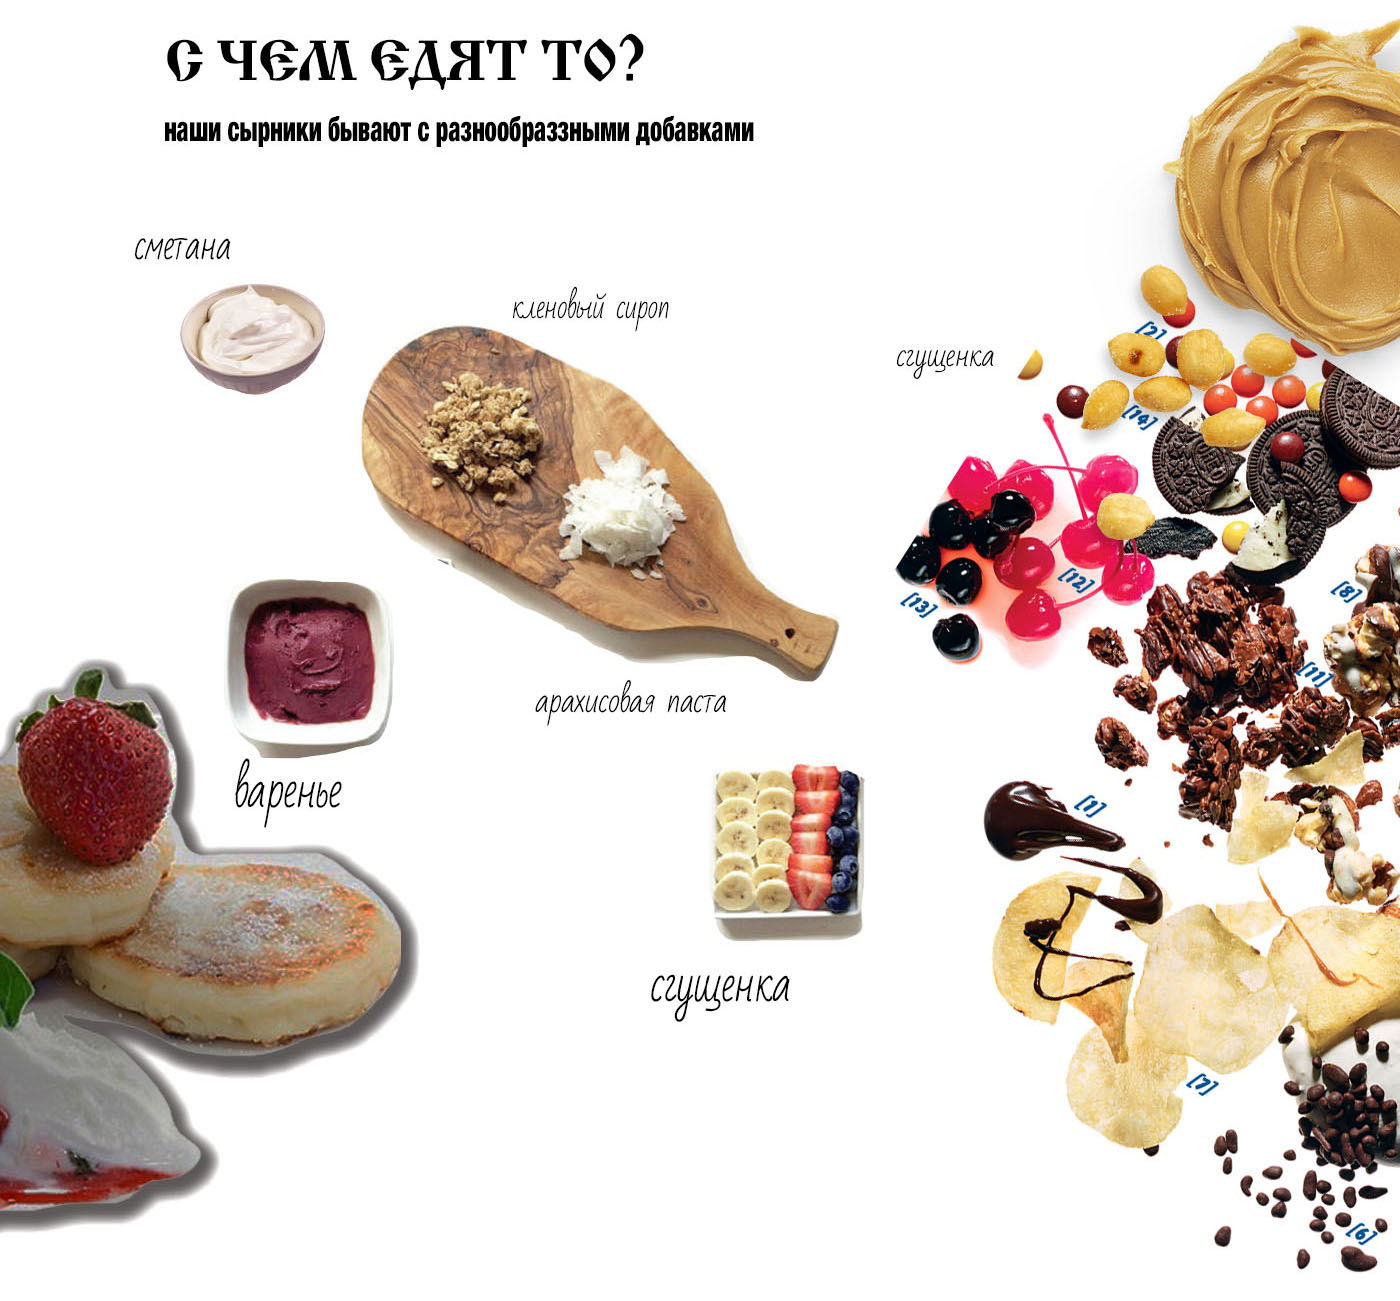
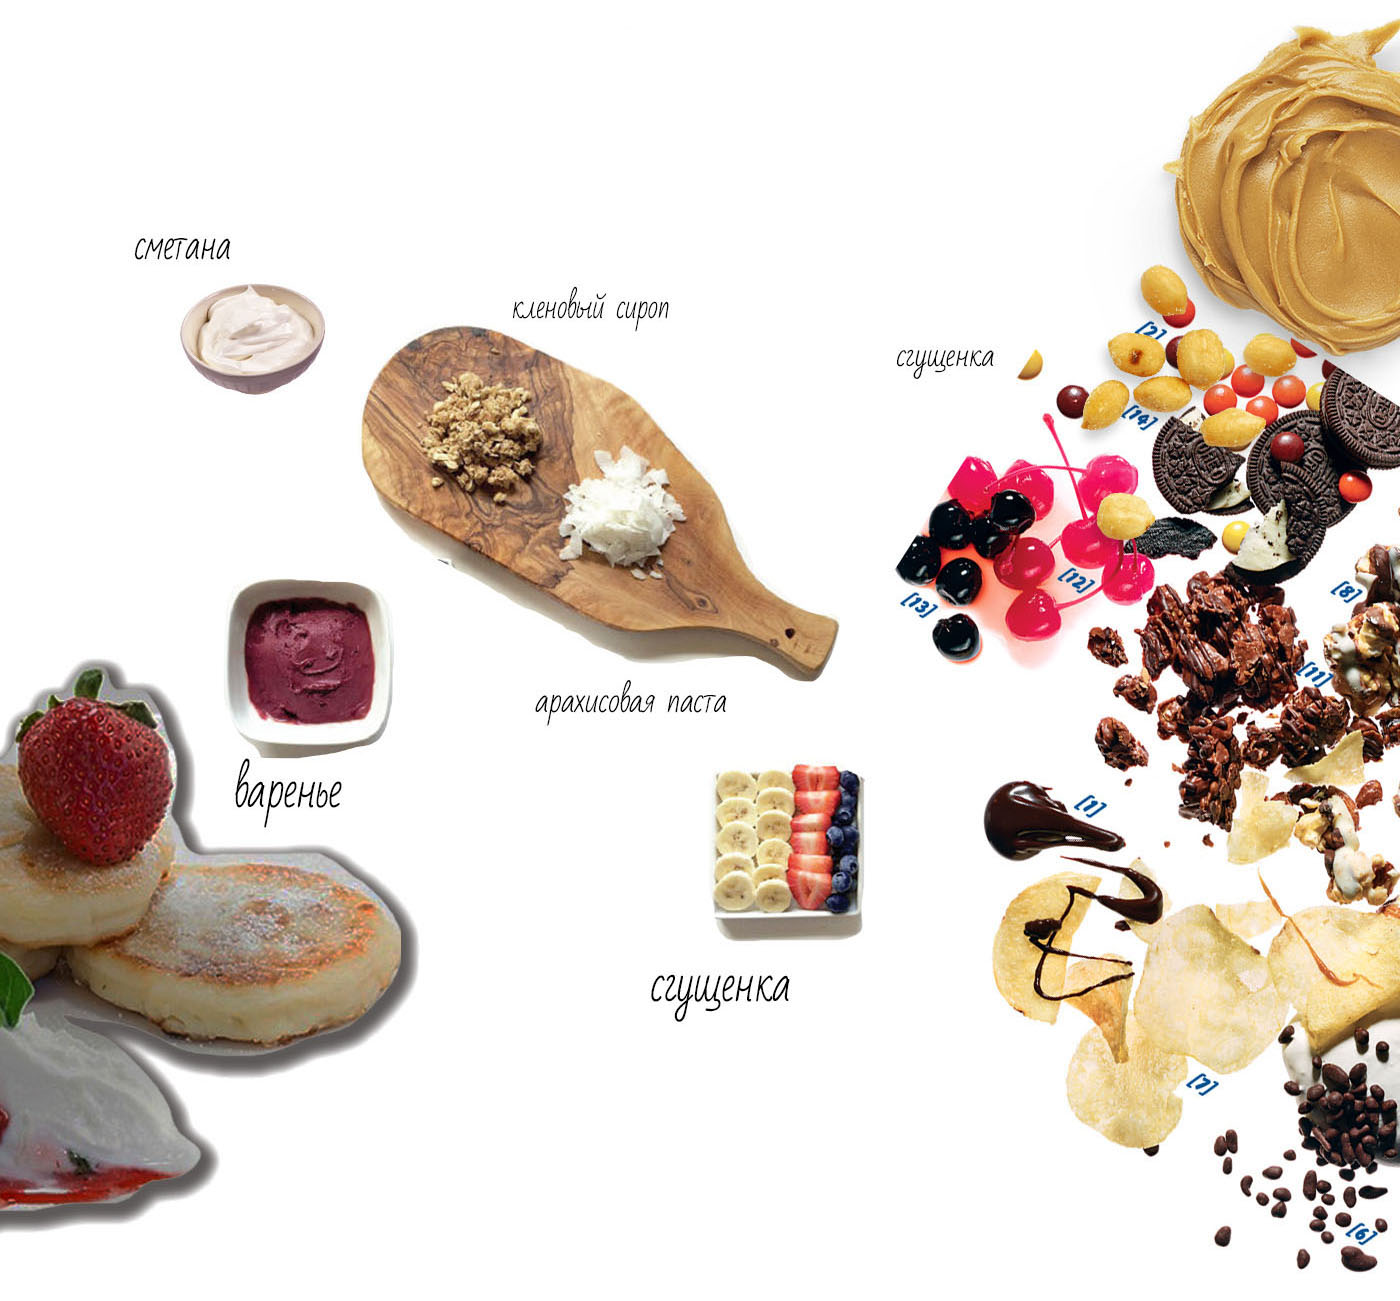
V. 0.1

Changed region(s): [[0.1229, 0.0922, 0.5529, 0.123], [0.1229, 0.0307, 0.4607, 0.0615]]

diff --git a/index.html b/index.html
@@ -1,5 +1,5 @@
 <!DOCTYPE html>
-<html lang="en">
+<html lang="ru">
 
 <head>
 
@@ -44,7 +44,7 @@
                     <span class="icon-bar"></span>
                     <span class="icon-bar"></span>
                 </button>
-                <a class="navbar-brand page-scroll" href="#page-top">Привет</a>
+                <a class="navbar-brand page-scroll" href="#page-top">С чем едят-то?</a>
             </div>
 
             <!-- Collect the nav links, forms, and other content for toggling -->
@@ -58,13 +58,13 @@
                         <a class="page-scroll" href="#second-section">Что за?</a>
                     </li>
                     <li>
-                        <a class="page-scroll" href="#third-section">С чем едят-то?</a>
+                        <a class="page-scroll" href="#third-section">Зачем?</a>
                     </li>
                     <li>
-                        <a class="page-scroll" href="#fourth-section">4</a>
+                        <a class="page-scroll" href="#fourth-section">Как выглядят?</a>
                     </li>
                     <li>
-                        <a class="page-scroll" href="#fifth-section">5</a>
+                        <a class="page-scroll" href="#fifth-section">Где?</a>
                     </li>                    
                 </ul>
             </div>
@@ -74,32 +74,36 @@
     </nav>
 
     <!-- Intro Section -->
-    <section id="intro-section" class="intro-section sect">
+    <section id="intro-section" class="intro-section">
         <div class="container">
+        <!-- Колонки с текстом -->
             <div class="row">
                 <div class="col-lg-12">
                     <h1>Что за еда такая — сырники?</h1>
+                        <hr>
+            <div class="row">
                     <div class="container">
-                      <div class="row">
-                        <div class="col-md-4">
-                            <img src="/img/icon1.png" class="icon-image-intro">
-                          <h2 class="Old-Cyrillic">Полезный перекус</h2>
-                          <p>Сырники – отличный завтрак, полезный перекус и альтернатива десерту </p>
-                          <!-- <p><a class="btn btn-default" href="#" role="button">View details »</a></p> -->
+                        <div class="row">
+                            <div class="col-md-4">
+                                <img src="/img/icon1.png" class="icon-image-intro">
+                                <h2 class="Old-Cyrillic">Полезный перекус</h2>
+                                <p>Сырники – отличный завтрак, полезный перекус и альтернатива десерту </p>
+                                <!-- <p><a class="btn btn-default" href="#" role="button">View details »</a></p> -->
+                            </div>
+                            <div class="col-md-4">
+                                <img src="/img/icon2.png" class="icon-image-intro">                        
+                                <h2 class="Old-Cyrillic">Только фермерские продукты</h2>
+                                <p>Мы используем только самые свежие фермерские продукты </p>
+                            </div>
+                            <div class="col-md-4">
+                                <img src="/img/icon3.png" class="icon-image-intro">
+                                <h2 class="Old-Cyrillic">В ритме большого города</h2>
+                                <p>Полезная и быстрая еда — очень важная вещь для жителей больших городов</p>
+                            </div>
                         </div>
-                        <div class="col-md-4">
-                            <img src="/img/icon2.png" class="icon-image-intro">                        
-                          <h2 class="Old-Cyrillic">Только фермерские продукты</h2>
-                          <p>Мы используем только самые свежие фермерские продукты </p>
-                       </div>
-                        <div class="col-md-4">
-                            <img src="/img/icon3.png" class="icon-image-intro">
-                          <h2 class="Old-Cyrillic">В ритме большого города</h2>
-                          <p>Полезная и быстрая еда — очень важная вещь для жителей больших городов</p>
-                        </div>
-                      </div>
+                    </div>
 
-                      <div class="container">
+                    <div class="container">
                       <div class="row">
                         <div class="col-md-4">
                             <img src="/img/icon4.png" class="icon-image-intro">
@@ -117,13 +121,12 @@
                           <p></p>
                         </div>
                       </div>
-
-                      <hr>
-
-                      <footer>
-                        <p></p>
-                      </footer>
                     </div>
+            </div>
+                        <footer>
+                            <p></p>
+                        </footer>
+                </div>
                     <!--
                     <p><strong>Usage Instructions:</strong> Make sure to include the <code>scrolling-nav.js</code>, <code>jquery.easing.min.js</code>, and <code>scrolling-nav.css</code> files. To make a link smooth scroll to another section on the page, give the link the <code>.page-scroll</code> class and set the link target to a corresponding ID on the page.</p>
                     -->
@@ -137,29 +140,96 @@
     </section>
 
     <!-- About Section -->
-    <section id="second-section" class="second-section sect">
+    <section id="second-section" class="second-section">
         <div class="container">
             <div class="row">
                 <div class="col-lg-12">
-                    <h1></h1>
+                    <h1 class="text-left">С чем едят-то?</h1>
+                    <h3 class="text-left">Наши сырники бывают с разнообразными добавками:</h2>
                 </div>
             </div>
         </div>
     </section>
 
     <!-- Services Section -->
-    <section id="third-section" class="third-section sect">
+    <section id="third-section" class="third-section">
         <div class="container">
             <div class="row">
                 <div class="col-lg-12">
-                    <h1></h1>
+                    <h1>Зачем нам сырники?</h1>
+                    <h2>Наш холодильник с сырниками может пригодиться, если у вас:</h2>
                 </div>
+            </div>
+            <div class="container col-sm-offset-2">
+                        <div class="col-md-3">
+                            <div class="thumbnail">
+                                <span class="glyphicon glyphicon-asterisk"></span>
+                                <!-- <img data-src="holder.js/300x200" alt="..."> -->
+                                <div class="caption">
+                                <h3>Фитнес-клуб</h3>
+                                <p>В сырниках много белка, это отличный выбор для спортсменов как до, так и 
+                                после тренировок</p>
+                                </div>
+                            </div>
+                        </div>
+                        <div class="col-md-3">
+                            <div class="thumbnail">
+                                <span class="glyphicon glyphicon-asterisk"></span>
+                                <!-- <img data-src="holder.js/300x200" alt="..."> -->
+                                <div class="caption">
+                                <h3>Ресторан-кафе</h3>
+                                <p>Если в вашем заведении есть кофе на вынос — сырники составят ему отличную компанию</p>
+                                </div>
+                            </div>
+                        </div>
+                        <div class="col-md-3">
+                            <div class="thumbnail">
+                                <span class="glyphicon glyphicon-asterisk"></span>
+                                <!-- <img data-src="holder.js/300x200" alt="..."> -->
+                                <div class="caption">
+                                <h3>Лавка здорового питания</h3>
+                                <p>Мы однозначно за здоровое питание...</p>
+                                </div>
+                            </div>
+                        </div>
+            </div>
+            <div class="container col-sm-offset-2">
+                        <div class="col-md-3">
+                            <div class="thumbnail">
+                                <span class="glyphicon glyphicon-asterisk"></span>
+                                <!-- <img data-src="holder.js/300x200" alt="..."> -->
+                                <div class="caption">
+                                <h3>Учебное заведение</h3>
+                                <p>...</p>
+                                </div>
+                            </div>
+                        </div>
+                        <div class="col-md-3">
+                            <div class="thumbnail">
+                                <span class="glyphicon glyphicon-asterisk"></span>
+                                <!-- <img data-src="holder.js/300x200" alt="..."> -->
+                                <div class="caption">
+                                <h3>Праздник, корпоратив</h3>
+                                <p>...</p>
+                                </div>
+                            </div>
+                        </div>
+                        <div class="col-md-3">
+                            <div class="thumbnail">
+                                <span class="glyphicon glyphicon-asterisk"></span>
+                                <!-- <img data-src="holder.js/300x200" alt="..."> -->
+                                <div class="caption">
+                                <h3>Фестиваль, эвент</h3>
+                                <p>...</p>
+                                </div>
+                            </div>
+                        </div>
             </div>
         </div>
     </section>
 
     <!-- Contact Section -->
-    <section id="fourth-section" class="fourth-section sect">
+    <section id="fourth-section" class="fourth-section">
         <div class="container">
             <div class="row">
                 <div class="col-lg-12">
@@ -169,7 +239,7 @@
         </div>
     </section>
 
-    <section id="fifth-section" class="fifth-section sect">
+    <section id="fifth-section" class="fifth-section">
         <div class="container">
             <div class="row">
                 <div class="col-lg-12">

diff --git a/css/scrolling-nav.css b/css/scrolling-nav.css
@@ -33,35 +33,41 @@ The padding is very important to make sure the scrollspy picks up the right area
 of those sections to manage the look and feel of the site. */
 
 
-#intro-section,
-#second-section,
-#third-section,
-#fourth-section,
-#fifth-section {
+.intro-section,
+.second-section,
+.third-section,
+.fourth-section,
+.fifth-section {
     height: 100%;
     background-repeat:no-repeat;
-    background-size: 100%;
-    /*background-position: 0% 20%;*/
+    background-size: cover;
     text-align: center;
     padding-top: 150px;
 }
 
-.intro-section {
+    
+#intro-section {
     background: #fff url('/img/1.jpg') no-repeat scroll center top;
+    background-size: cover;
 }
-
-.second-section {
+#second-section {
     background: #fff url('/img/2.jpg');
+    padding-top: 50px;
+    height: 170%;
+    background-repeat:no-repeat;
+    background-size: cover;
 }
 
-.third-section {
-    background: #fff url('/img/3.jpg');
+#third-section {
+    background: #fff url('/img/3.jpg') no-repeat;
+    background-size: cover;
+
 }
 
-.fourth-section {
+#fourth-section {
     background: #fff url('/img/4.jpg');
 }
 
-.fifth-section {
+#fifth-section {
     background: #fff url('/img/5.jpg');
 }

diff --git a/css/fonts.css b/css/fonts.css
@@ -1,20 +1,22 @@
 @font-face {
     font-family: HelveticaNeue;
-    src: url(../fonts/HelveticaNeueCyr-Thin.otf) format('otf');
+    src: url(/../fonts/HelveticaNeueCyr-Thin.otf) format('otf');
     font-style: normal;
     font-weight: 100;
 }
 
 @font-face {
     font-family: HelveticaNeue;
-    src: url(../fonts/HelveticaNeueCyr-ThinItalic.otf) format('otf');
+    src: url(/../HelveticaNeueCyr-ThinItalic.otf) format('otf');
     font-style: italic;
     font-weight: 100;
 }
 
 @font-face{
     font-family: OldCyr;
-    src: url(../fonts/cyrillic_old.otf) format('ttf');    
+    src: url(/../fonts/cyrillic_old.otf) format('ttf');
+    font-weight: 100;
+    font-style: normal;
 }
 
 .Old-Cyrillic {
